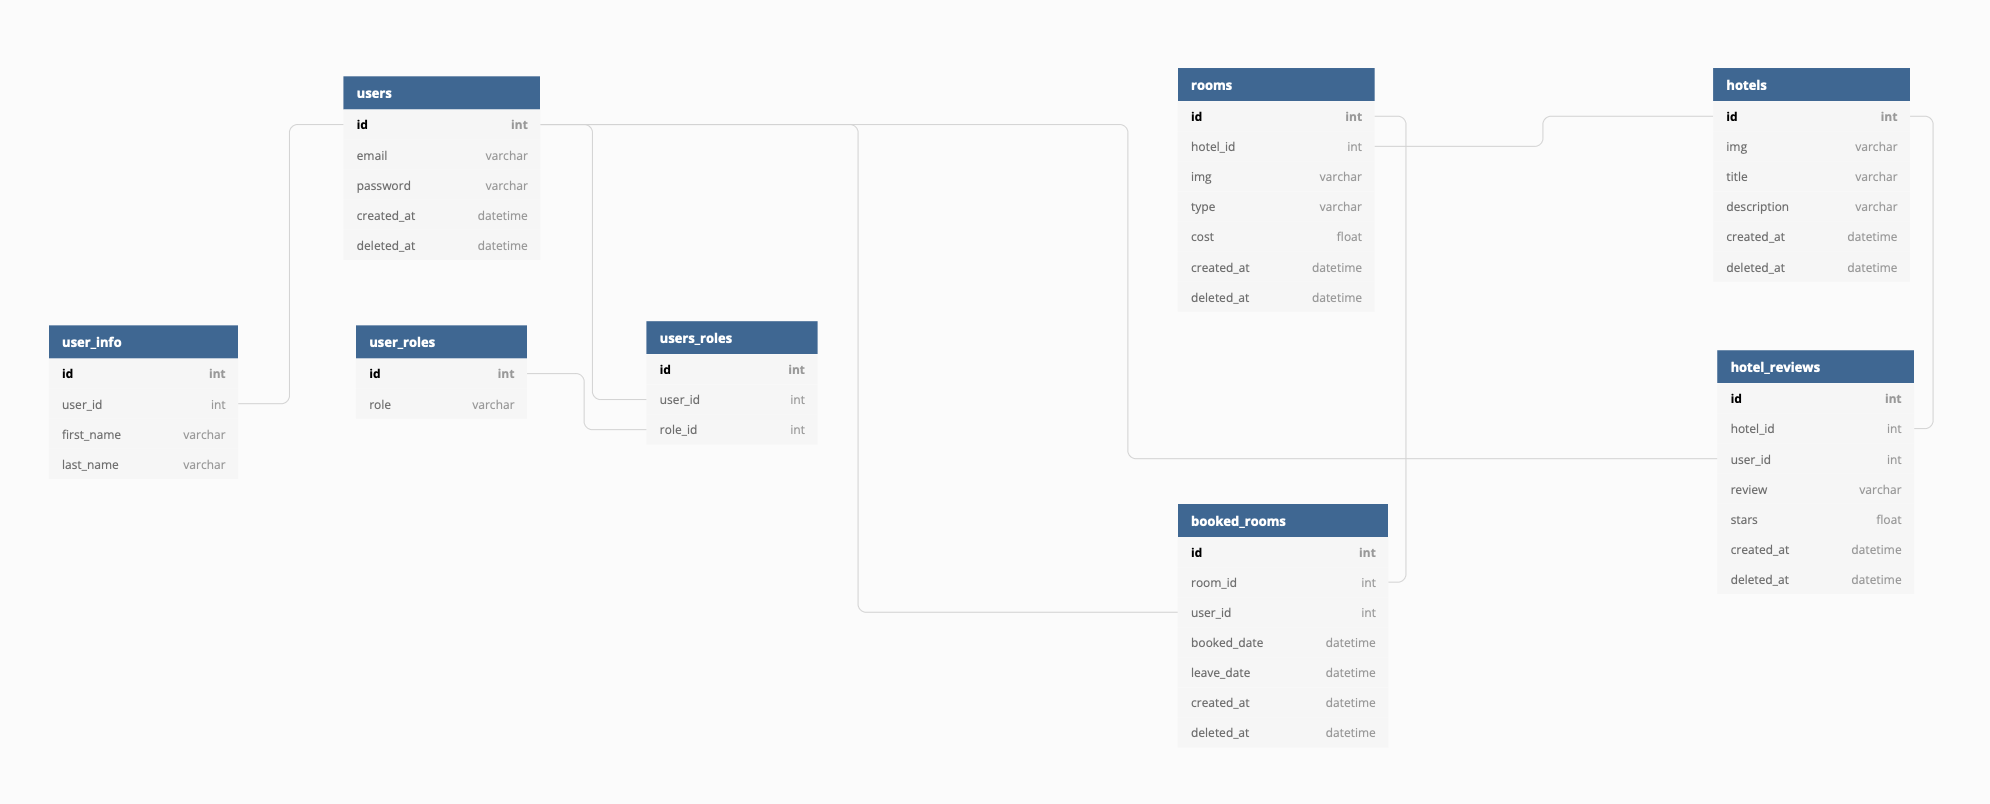
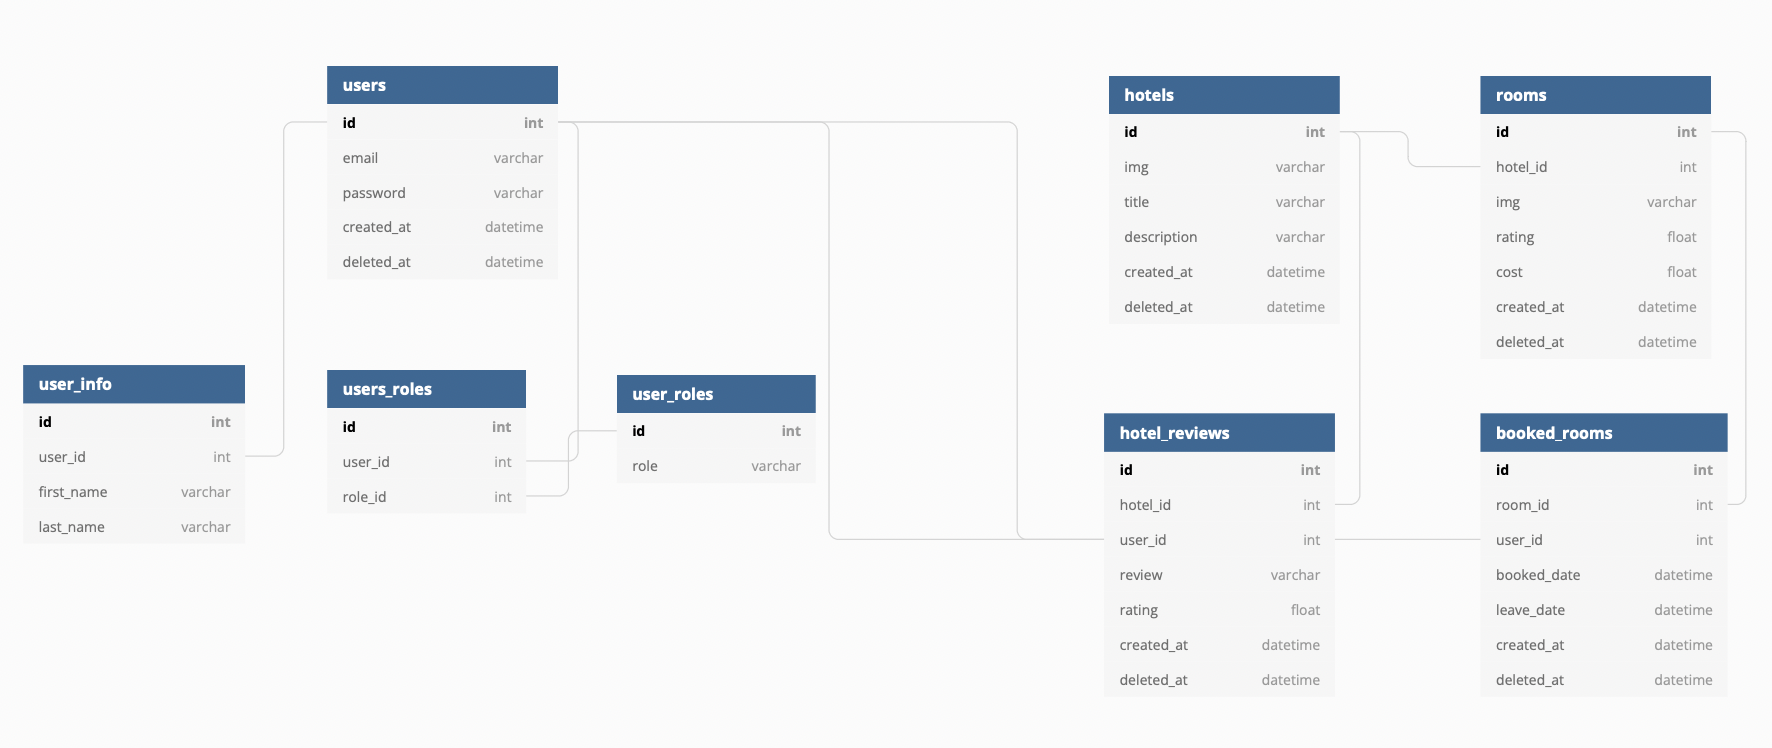
Update db structure

diff --git a/src/api/validation/roomsSchemas.js b/src/api/validation/roomsSchemas.js
@@ -5,6 +5,6 @@ const { object, string, number } = Joi.types();
 exports.addRoomSchema = object.keys({
   hotelID: number.integer().min(1).required(),
   img: string.required().allow(null),
-  type: string.required(),
+  rating: number.required(),
   cost: number.integer().required(),
 });

diff --git a/src/api/models/RoomModel.js b/src/api/models/RoomModel.js
@@ -11,8 +11,8 @@ module.exports = function (sequelize, DataTypes) {
         type: DataTypes.STRING,
         allowNull: true,
       },
-      type: {
-        type: DataTypes.STRING,
+      rating: {
+        type: DataTypes.FLOAT,
         allowNull: false,
       },
       cost: {

diff --git a/src/api/models/HotelReviewModel.js b/src/api/models/HotelReviewModel.js
@@ -11,7 +11,7 @@ module.exports = function (sequelize, DataTypes) {
         type: DataTypes.STRING,
         allowNull: false,
       },
-      stars: {
+      rating: {
         type: DataTypes.FLOAT,
         allowNull: false,
       },

diff --git a/src/api/validation/hotelsSchemas.js b/src/api/validation/hotelsSchemas.js
@@ -10,5 +10,5 @@ exports.addHotelSchema = object.keys({
 
 exports.addReviewSchema = object.keys({
   review: string.max(100).required(),
-  stars: number.min(0).max(5).required(),
+  rating: number.min(0).max(5).required(),
 });
